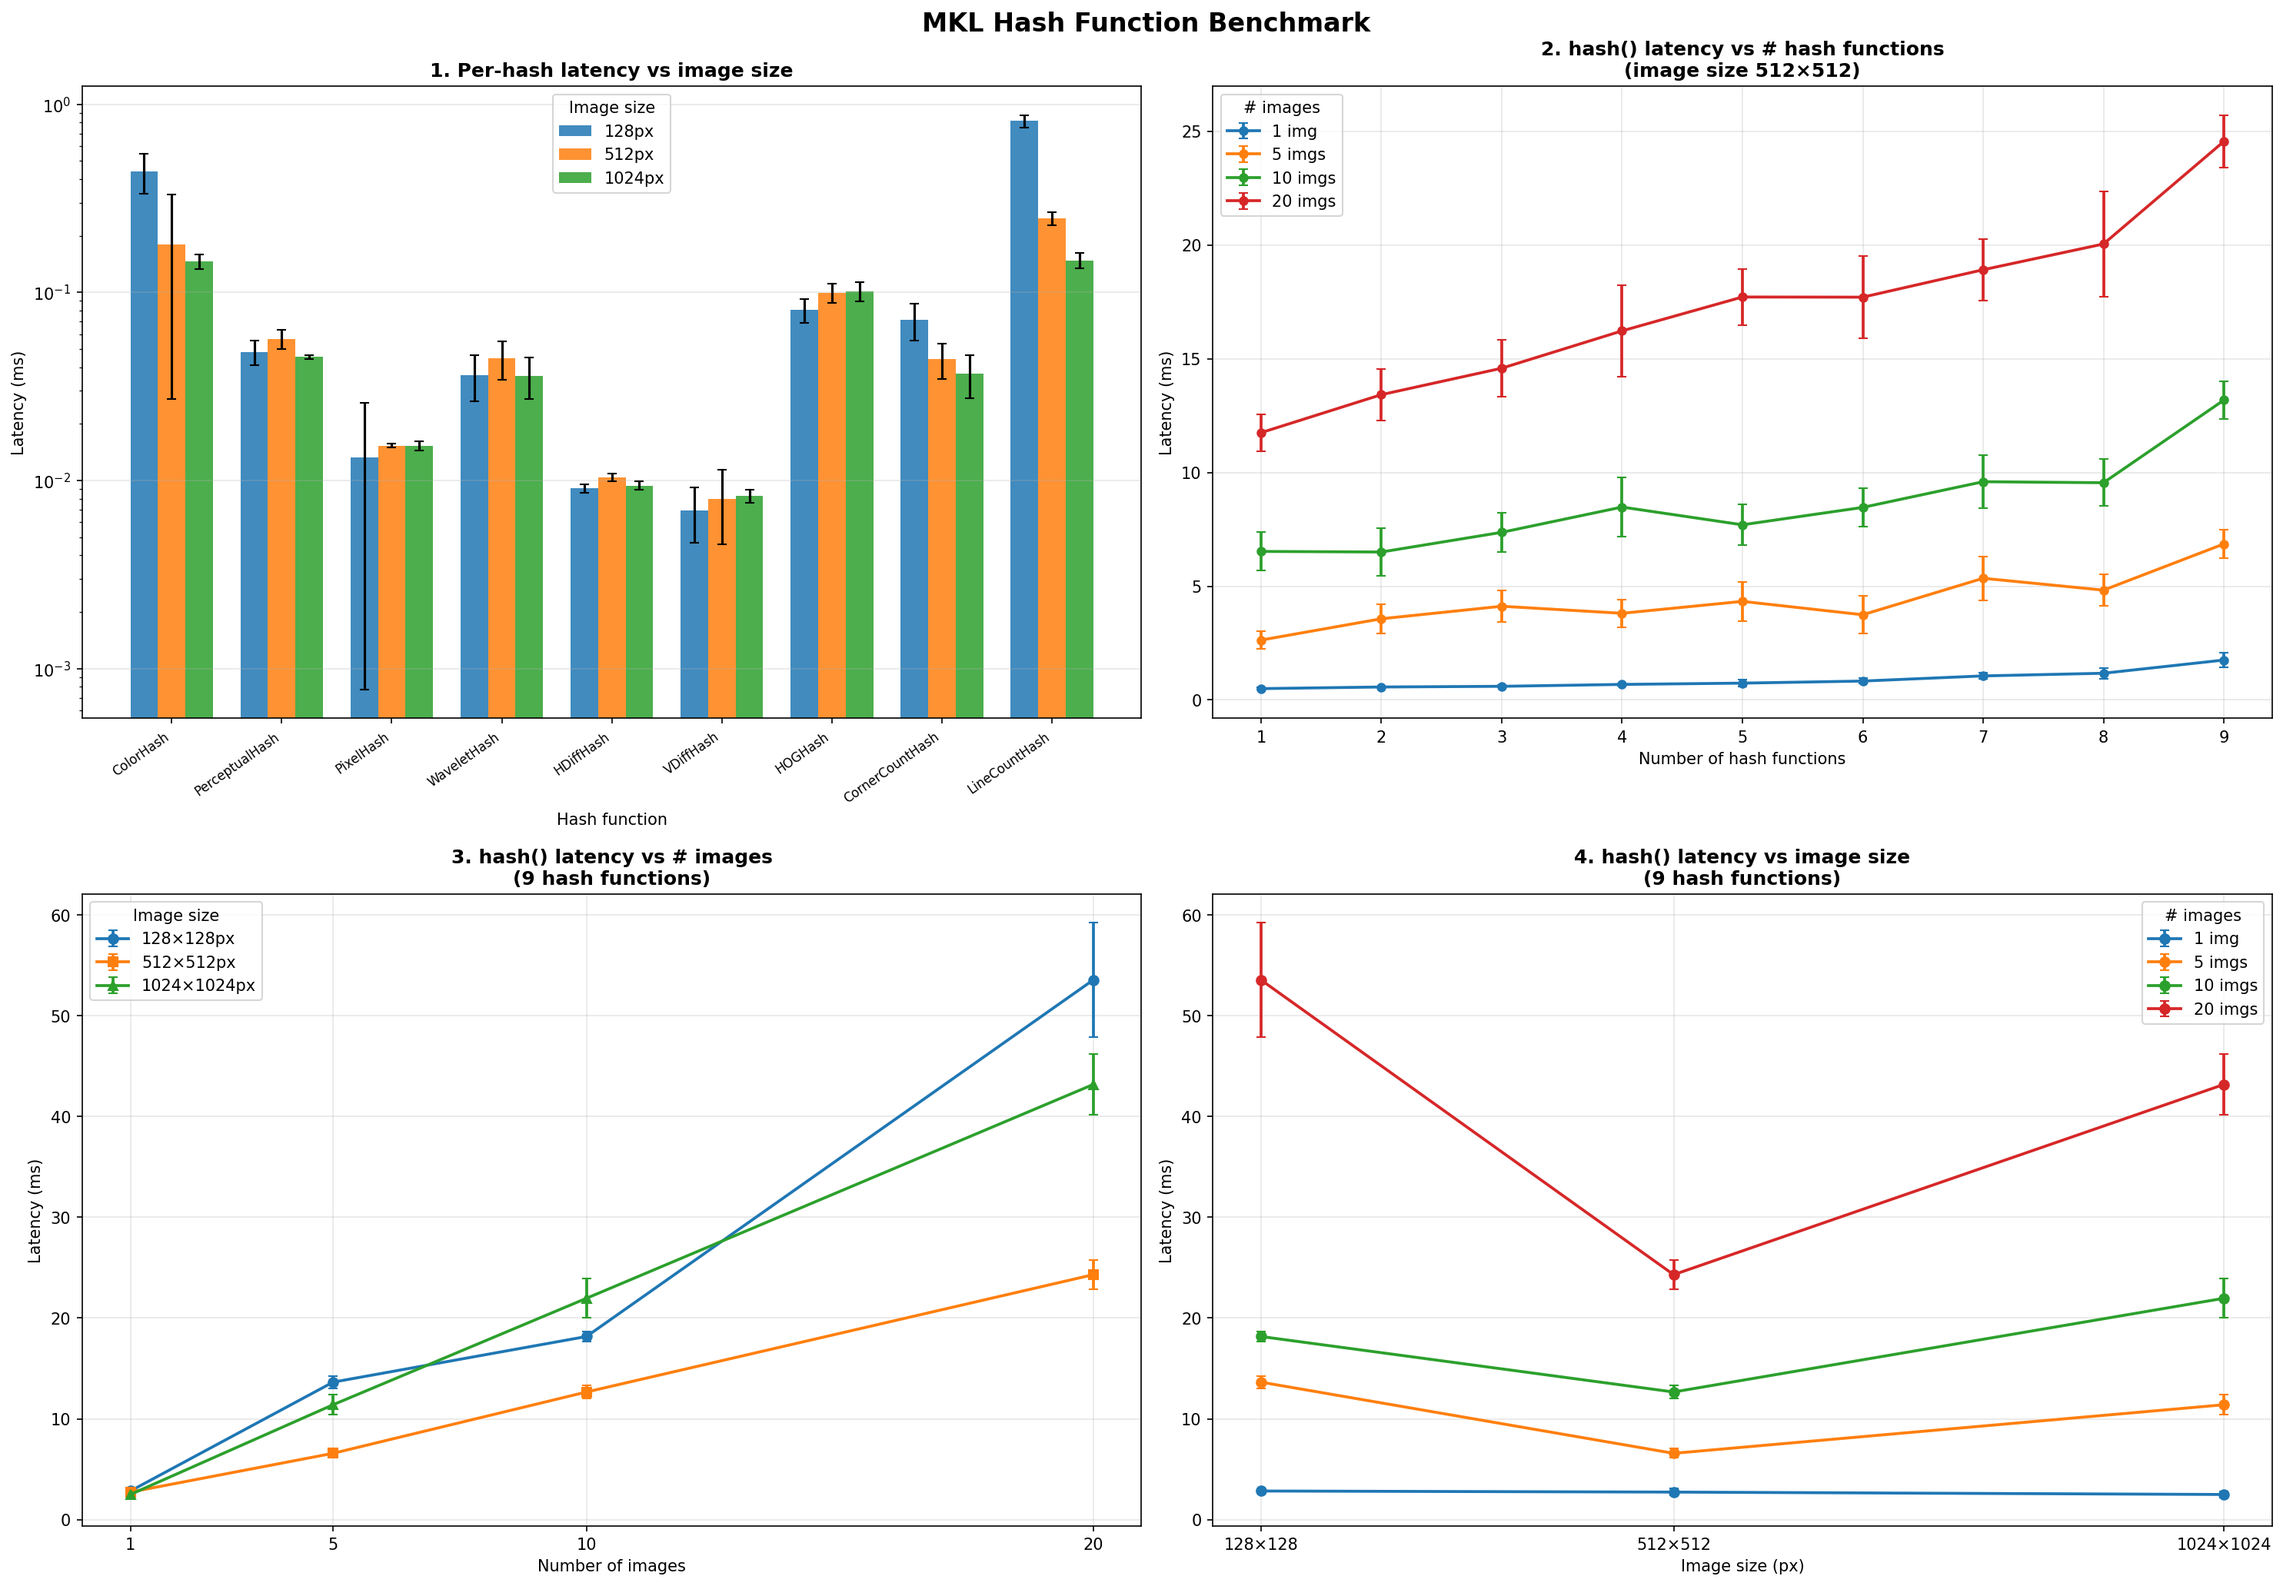
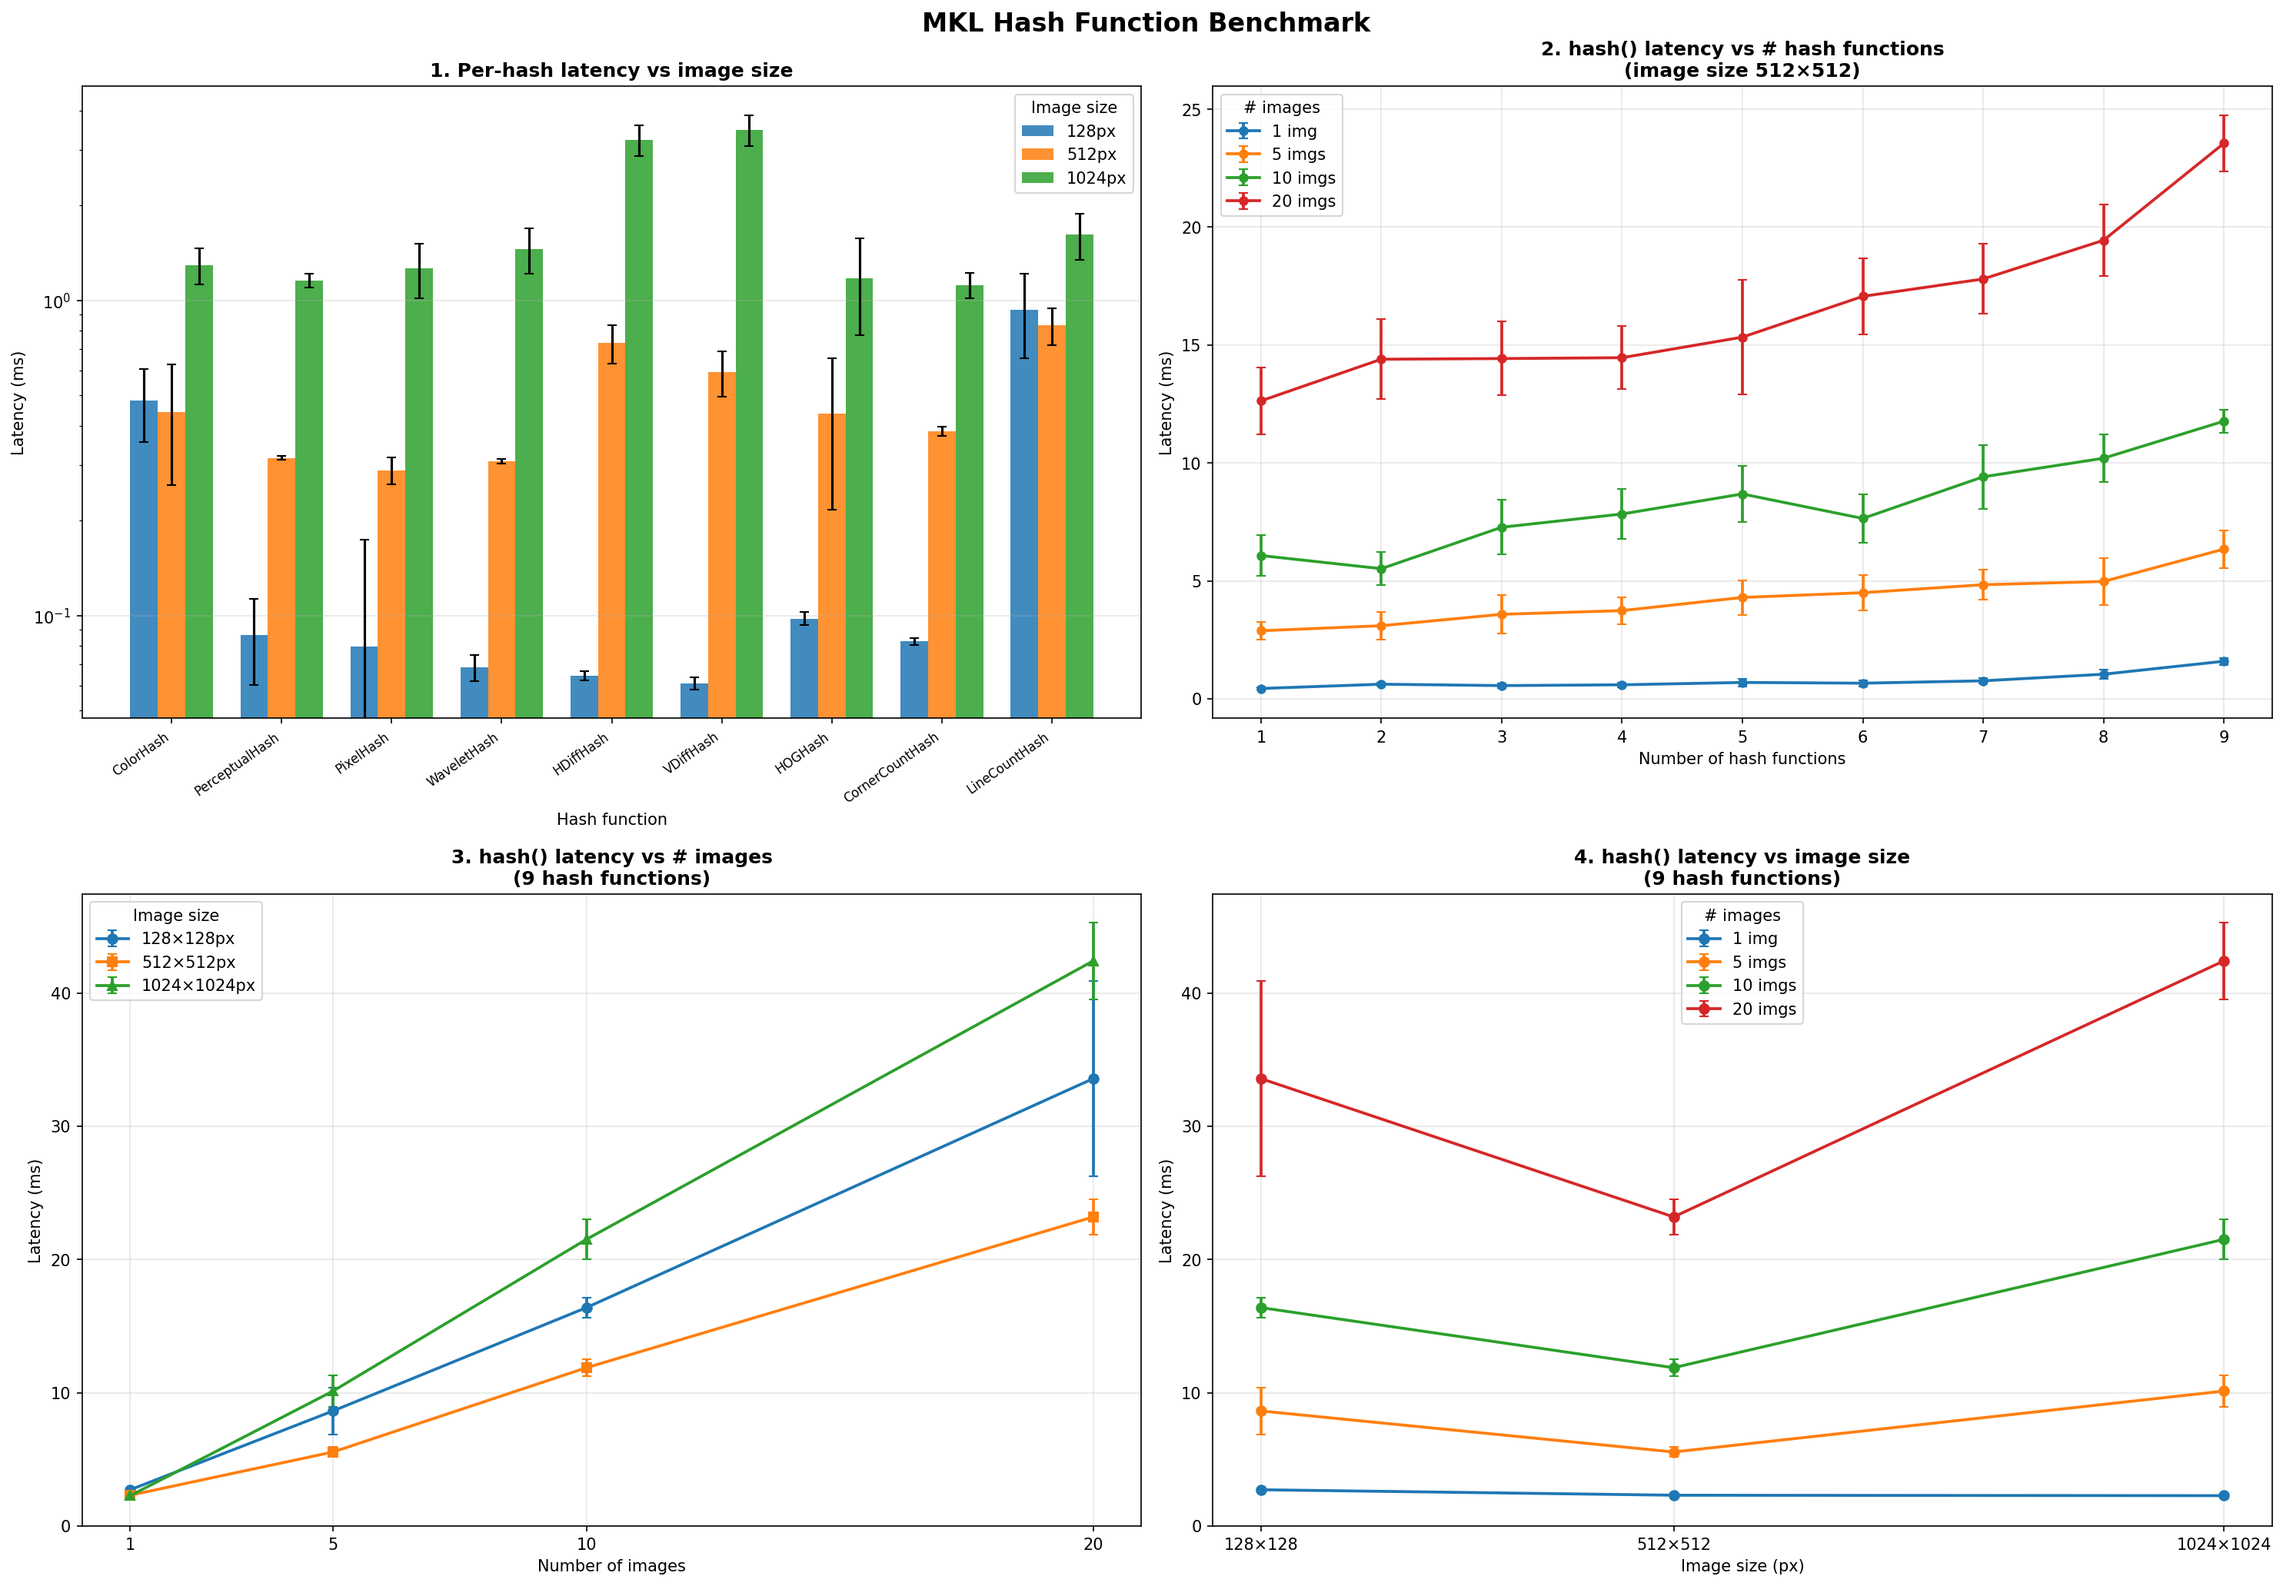
Update warmup and cold-start cache for latency profile

diff --git a/scripts/latency_profile.py b/scripts/latency_profile.py
@@ -22,12 +22,12 @@ from hashes import (
 )
 from utils import MemoizedImage
 
-# config
+# Config
 IMG_SIZES = [128, 512, 1024]
 IMG_COUNTS = [1, 5, 10, 20]
 REF_SIZE = 512
-N_WARMUP = 3
-N_RUNS = 15
+N_WARMUP = 10
+N_RUNS = 20
 
 
 def make_hashes():
@@ -69,17 +69,15 @@ def run_hashes(hashes_dict, imgs):
     }
 
 
-# per-hash latency
+# Per-hash latency
 hash_lat = defaultdict(dict)
 hash_names = list(make_hashes().keys())
 for size in IMG_SIZES:
     img = rand_img(size, size)
     hashes = make_hashes()
     for name, hf in hashes.items():
-        memo = MemoizedImage(img)
-        hash_lat[name][size] = bench(lambda hf=hf, memo=memo: hf.feat(memo))
-
-# hash() latency vs num_hashes
+        hash_lat[name][size] = bench(lambda hf=hf, img=img: hf.feat(MemoizedImage(img)))
+# Latency of hash() vs num_hashes
 all_hashes = make_hashes()
 all_hash_names = list(all_hashes.keys())
 num_hash_range = list(range(1, len(all_hash_names) + 1))
@@ -89,25 +87,21 @@ for n_img in IMG_COUNTS:
     for k in num_hash_range:
         subset = {n: all_hashes[n] for n in all_hash_names[:k]}
         lat2[n_img][k] = bench(lambda s=subset, i=imgs: run_hashes(s, i))
-
-# hash() latency vs image size
+# Latency of hash() vs image size
 all_hashes_fixed = make_hashes()
 n_hashes = len(all_hashes_fixed)
 lat3 = {n: {} for n in IMG_COUNTS}
-
 for n_img in IMG_COUNTS:
     for size in IMG_SIZES:
         imgs = [rand_img(size, size) for _ in range(n_img)]
         lat3[n_img][size] = bench(lambda h=all_hashes_fixed, i=imgs: run_hashes(h, i))
-
-# plotting
+# Plots
 PALETTE = plt.rcParams["axes.prop_cycle"].by_key()["color"]
 IMG_COLORS = {n: PALETTE[i] for i, n in enumerate(IMG_COUNTS)}
 MARKERS = ["o", "s", "^"]
 fig = plt.figure(figsize=(20, 14))
 fig.suptitle("MKL Hash Function Benchmark", fontsize=16, fontweight="bold", y=0.98)
-
-# plot 1 — per-hash latency
+# Plot 1: per-hash latency
 ax1 = fig.add_subplot(2, 2, 1)
 x = np.arange(len(hash_names))
 width = 0.25
@@ -132,7 +126,7 @@ ax1.set_xticklabels(hash_names, rotation=35, ha="right", fontsize=8)
 ax1.legend(title="Image size")
 ax1.grid(axis="y", alpha=0.3)
 ax1.set_yscale("log")
-# plot 2 — latency vs num_hashes
+# Plot 2: Latency vs num_hashes
 ax2 = fig.add_subplot(2, 2, 2)
 for n_img in IMG_COUNTS:
     meds = [lat2[n_img][k][0] for k in num_hash_range]
@@ -158,7 +152,7 @@ ax2.set_xticks(num_hash_range)
 ax2.set_xticklabels([str(k) for k in num_hash_range])
 ax2.legend(title="# images")
 ax2.grid(alpha=0.3)
-# plot 3 — latency vs num_images
+# Plot 3: Latency vs num_images
 ax3 = fig.add_subplot(2, 2, 3)
 for i, size in enumerate(IMG_SIZES):
     meds = [lat3[n][size][0] for n in IMG_COUNTS]
@@ -182,7 +176,7 @@ ax3.set_ylabel("Latency (ms)")
 ax3.set_xticks(IMG_COUNTS)
 ax3.legend(title="Image size")
 ax3.grid(alpha=0.3)
-# plot 4 — latency vs image size
+# Plot 4: Latency vs image size
 ax4 = fig.add_subplot(2, 2, 4)
 for n_img in IMG_COUNTS:
     meds = [lat3[n_img][size][0] for size in IMG_SIZES]
@@ -210,5 +204,5 @@ ax4.grid(alpha=0.3)
 plt.tight_layout()
 out_dir = os.path.join(os.path.dirname(__file__), "..", "assets")
 os.makedirs(out_dir, exist_ok=True)
-
+# Save profiling plots to the assets/ folder
 plt.savefig(os.path.join(out_dir, "hash_benchmark.png"), dpi=150, bbox_inches="tight")
